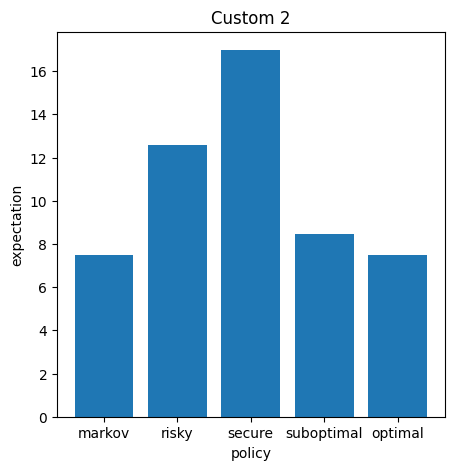
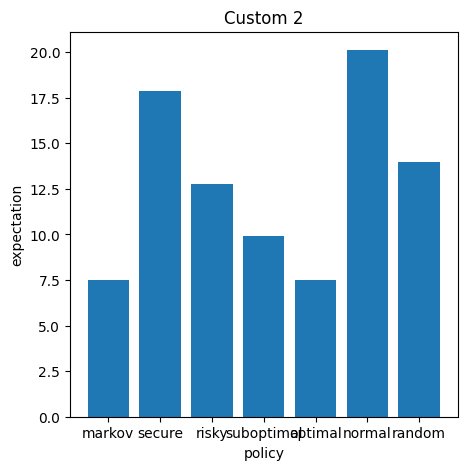
threaded layouts in addition to policies (fast++)

Changed region(s): [[0.0, 0.0596, 0.9868, 0.983], [0.4626, 0.0, 0.6476, 0.0596]]

diff --git a/testbench.py b/testbench.py
@@ -15,7 +15,7 @@ from layouts import *
 #   2 for max verbose
 verbose = 1
 # number of iterations for empirical tests
-nb_iterations = 1e5
+nb_iterations = 1e2
 # filename to write results
 filename = "results.txt"
 # open file in write mode
@@ -85,8 +85,6 @@ def compare_policies(policies, layout, circle=False, add_pure_random=False) :
         elif len(policy) == 15 :
             name, dice = None, policy
         threads.append(threading.Thread(target=test_empirical, args=(layout, circle), kwargs={'policy': dice, 'name':name}))
-        # empiric_exp, _ = test_empirical(layout, circle, policy=dice, name=name)
-
 
     for thread in threads:
         thread.start()
@@ -103,11 +101,18 @@ if __name__ == '__main__':
     #compare_models(layout_custom2, False)
     #compare_models(layout_custom2, True)
 
-    policies = strategies.get_policies(layout_custom1, True)
-    compare_policies(policies, layout_custom1, True, add_pure_random=True)
-    
-    policies = strategies.get_policies(layout_custom2, True)
-    compare_policies(policies, layout_custom2, True, add_pure_random=True)
+    threads = []
+
+    for layout in test_layouts:
+        for circle in [True, False]:
+            policies = strategies.get_policies(layout, circle)
+            threads.append(threading.Thread(target=compare_policies, args=(policies, layout, circle), kwargs={'add_pure_random':True}))
+
+    for thread in threads:
+        thread.start()
+
+    for thread in threads:
+        thread.join()
 
     f.close()
 

diff --git a/layouts.py b/layouts.py
@@ -20,6 +20,10 @@ layout_prison[[0, -1]] = ORDINARY   # start and goal squares must be ordinary
 layout_gamble = np.ones(15) * GAMBLE
 layout_gamble[[0, -1]] = ORDINARY   # start and goal squares must be ordinary
 
+# only PRISON (return to starting square)
+layout_restart = np.ones(15) * RESTART
+layout_restart[[0, -1]] = ORDINARY   # start and goal squares must be ordinary
+
 # random initialized traps
 layout_random = np.random.randint(low=0, high=5, size=15)
 layout_random[[0, -1]] = ORDINARY   # start and goal squares must be ordinary
@@ -33,3 +37,5 @@ layout_custom2 = np.array(
            [ORDINARY,   GAMBLE,     RESTART,    GAMBLE,     PENALTY, 
             ORDINARY,   PRISON,     ORDINARY,   RESTART,    ORDINARY, 
             PRISON,     PENALTY,    RESTART,    GAMBLE,     ORDINARY])
+
+test_layouts = [layout_ordinary, layout_penalty, layout_prison, layout_gamble, layout_restart, layout_custom1, layout_custom2]

diff --git a/snakes_and_ladders.py b/snakes_and_ladders.py
@@ -17,6 +17,8 @@ DICE :
 SECURITY, NORMAL, RISKY = 1, 2, 3
 ORDINARY, RESTART, PENALTY, PRISON, GAMBLE = 0, 1, 2, 3, 4
 
+inf = float('inf')
+
 class Die:
     def __init__(self, die_type):
         """Die type must be SECURITY or NORMAL or RISKY"""
@@ -399,6 +401,9 @@ def test_empirically(layout, circle, expectation=None, policy=None, nb_iter=1e7,
         nb_rolls[not_done] = nb_rolls_left
         marked[not_done] = marked_left
         not_done[states == len(board.layout) - 1] = False
+
+        if np.all(nb_rolls[:, 0] > 1e3):
+            return np.array([inf]*len(policy)), policy
 
     nb_rolls = nb_rolls[:, :-1]
     empiric_result = np.sum(nb_rolls, axis=0)/np.count_nonzero(nb_rolls, axis=0)

diff --git a/plots.py b/plots.py
@@ -7,6 +7,7 @@ layout_match = [
     ('All penalty', layout_penalty),
     ('All prison', layout_prison),
     ('All gamble', layout_gamble),
+    ('All restart', layout_restart),
     ('Custom 1', layout_custom1),
     ('Custom 2', layout_custom2)
 ]
